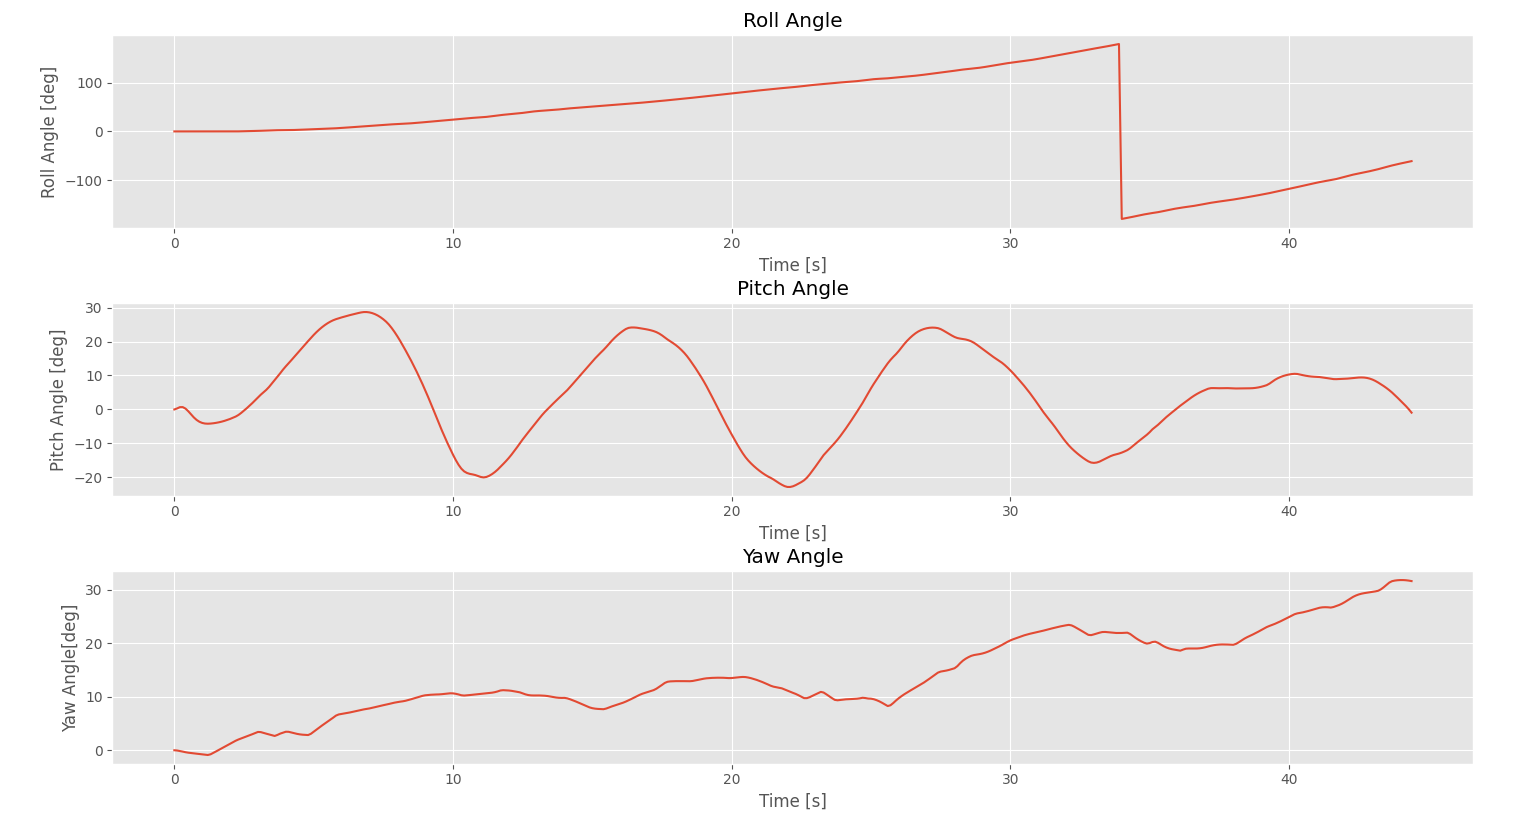
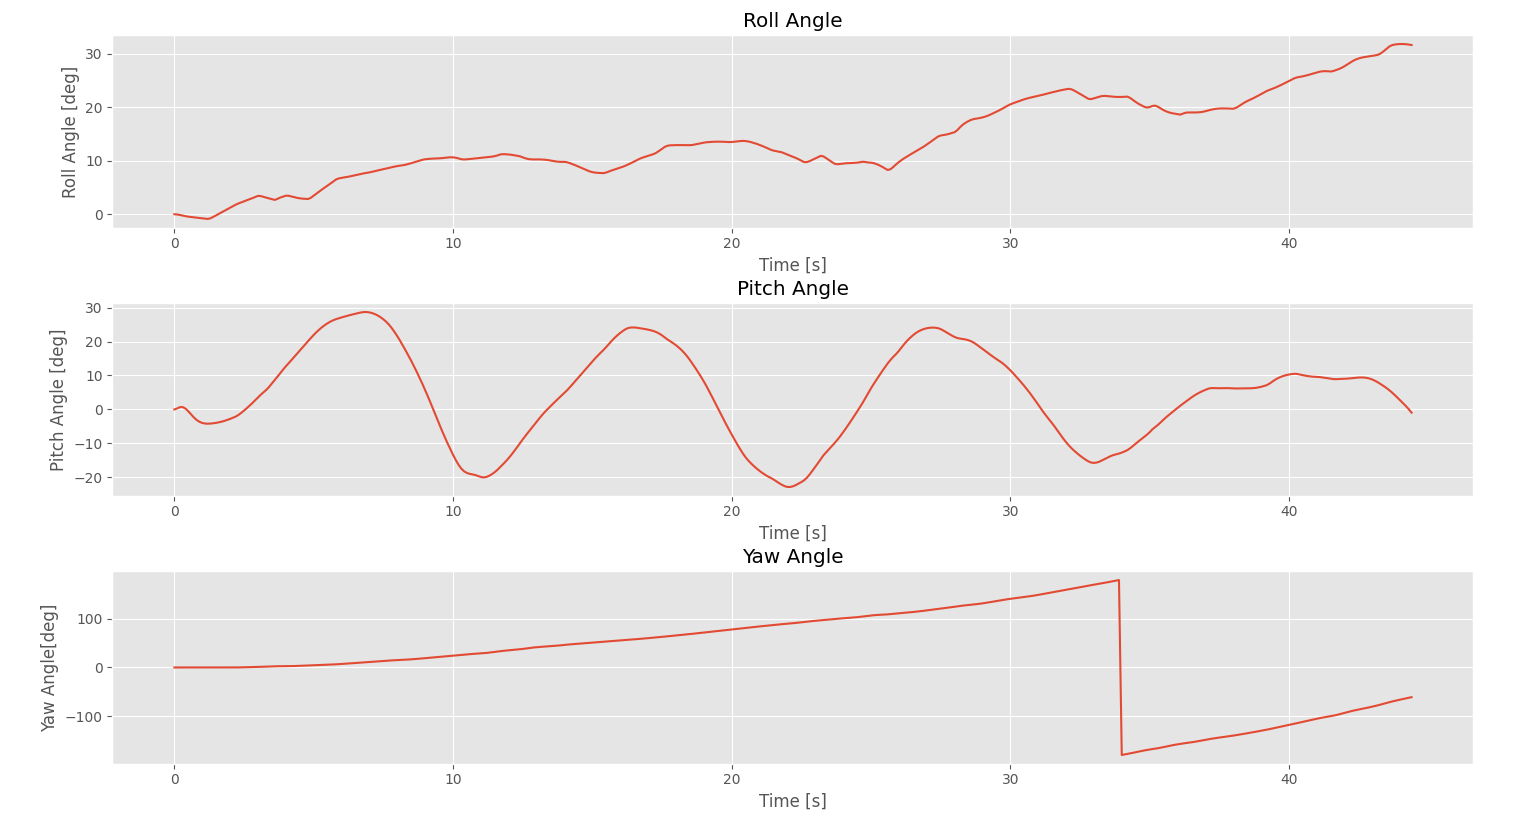
Yaw and Roll were flipped (corrected)

diff --git a/Goal1-PlanInSky/plot.py b/Goal1-PlanInSky/plot.py
@@ -6,10 +6,10 @@ Plots the generated path from the main.cpp run
 
 Data file structure:
     Gemetric File
-    [x, y, z, yaw, pitch, roll, x_dot, y_dot, z_dot, yaw_dot, pitch_dot, roll_dot, time]
+    [x, y, z, roll, pitch, yaw , x_dot, y_dot, z_dot, roll_dot, pitch_dot, yaw_dot]
 
     Control File
-    [x_pos, y_pos, z_pos, yaw, pitch, roll, x_dot, y_dot, z_dot, yaw_dot, pitch_dot, roll_dot d_e, d_a, d_r, thrust, conrol duration]
+    [x, y, z, roll, pitch, yaw , x_dot, y_dot, z_dot, roll_dot, pitch_dot, yaw_dot, d_e, d_a, d_r, thrust, conrol duration]
 
 """
 
@@ -61,9 +61,9 @@ def main():
     y = geoPath[:, 1]
     z = -geoPath[:, 2]  # NED
 
-    yaw = geoPath[:, 3]
+    yaw = geoPath[:, 5]
     pitch = geoPath[:, 4]
-    roll = geoPath[:, 5]
+    roll = geoPath[:, 3]
 
     x_dot = geoPath[:, 6]
     y_dot = geoPath[:, 7]
@@ -73,7 +73,14 @@ def main():
     pitch_dot = geoPath[:, 10]
     yaw_dot = geoPath[:, 11]
 
+    de = contPath[:, 12]
+    da = contPath[:, 13]
+    dr = contPath[:, 14]
+    thrust = contPath[:, 15]
+
     t = np.arange(0, 0.1*np.shape(x)[0], 0.1)
+
+    t_cont = np.cumsum(contPath[:, 16])
 
     nData = np.shape(x)[0]
 
@@ -135,16 +142,44 @@ def main():
 
     axs[1].plot(t, np.rad2deg(pitch))
     axs[1].set_xlabel("Time [s]")
-    axs[1].set_ylabel("pitch Angle [deg]")
-    axs[1].set_title("pitch Angle")
+    axs[1].set_ylabel("Pitch Angle [deg]")
+    axs[1].set_title("Pitch Angle")
 
     axs[2].plot(t, np.rad2deg(yaw))
     axs[2].set_xlabel("Time [s]")
-    axs[2].set_ylabel("yaw Angle[deg]")
-    axs[2].set_title("yaw Angle")
+    axs[2].set_ylabel("Yaw Angle[deg]")
+    axs[2].set_title("Yaw Angle")
     if isSave:
         fig.canvas.manager.full_screen_toggle()  # toggle fullscreen mode
         plt.savefig("AttitudePlots.png")
+
+    # -----------------------------------------------------------------------------------
+    # Plot controls
+    # -----------------------------------------------------------------------------------
+    fig, axs = plt.subplots(4)
+    fig.tight_layout()
+    axs[0].plot(t_cont, de)
+    axs[0].set_xlabel("Time [s]")
+    axs[0].set_ylabel("Elevator Control")
+    axs[0].set_title("Elevator Control")
+
+    axs[1].plot(t_cont, da)
+    axs[1].set_xlabel("Time [s]")
+    axs[1].set_ylabel("Aileron Control")
+    axs[1].set_title("Aileron Control")
+
+    axs[2].plot(t_cont, dr)
+    axs[2].set_xlabel("Time [s]")
+    axs[2].set_ylabel("Rudder Control")
+    axs[2].set_title("Rudder Control")
+
+    axs[3].plot(t_cont, thrust)
+    axs[3].set_xlabel("Time [s]")
+    axs[3].set_ylabel("Thrust Control")
+    axs[3].set_title("Thrust Control")
+    if isSave:
+        fig.canvas.manager.full_screen_toggle()  # toggle fullscreen mode
+        plt.savefig("ControlInputsPlots.png")
 
 
 # -----------------------------------------------------------------------------------------------------

diff --git a/Goal1-PlanInSky/main.cpp b/Goal1-PlanInSky/main.cpp
@@ -4,7 +4,7 @@ For algorithmic motion planning
 Main function for final project
 
 From tempest file:
-State Vector: [x, y, z, yaw, pitch, roll, x_dot, y_dot, z_dot, yaw_dot, pitch_dot, roll_dot]
+State Vector: [x, y, z, roll, pitch, yaw , x_dot, y_dot, z_dot, roll_dot, pitch_dot, yaw_dot]
 Input Vector: [d_e, d_a, d_r, t] (elevator, aileron, ruder, thrust)
 
 Axis Frame: NED (so z needs to be negative)
